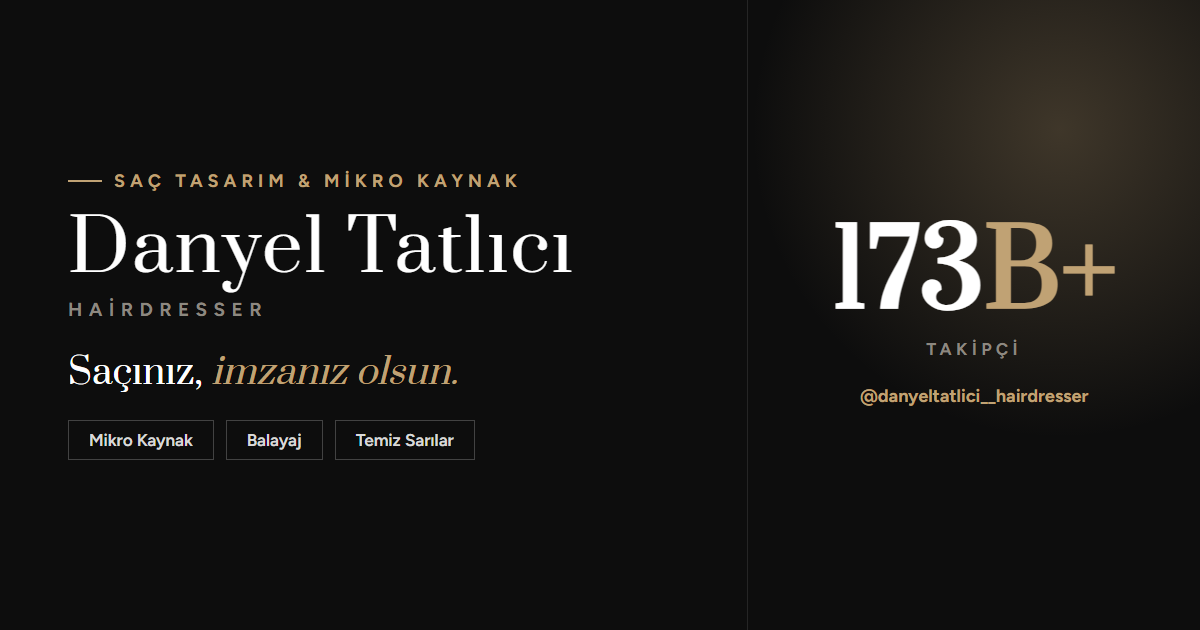
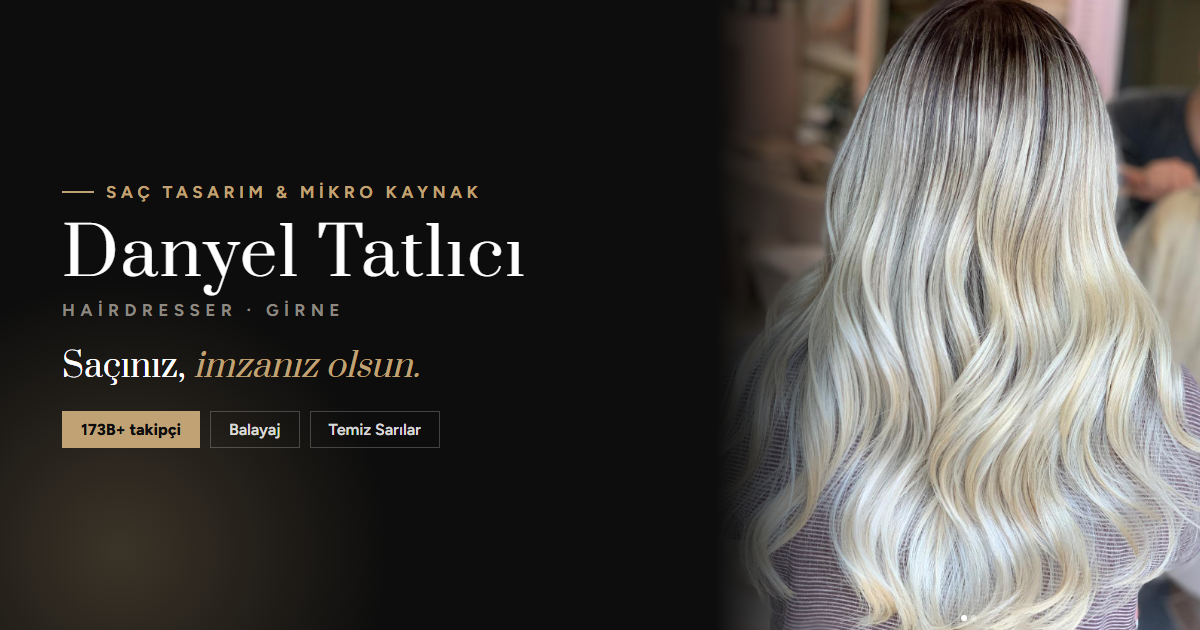
Add work gallery + photo OG card

diff --git a/index.html b/index.html
@@ -108,6 +108,18 @@
   .scard h3{font-size:1.55rem;margin:12px 0 8px}
   .scard p{color:var(--muted);font-size:.94rem}
 
+  /* gallery */
+  .gal{display:grid;grid-template-columns:repeat(6,1fr);grid-auto-rows:320px;gap:12px;margin-top:56px}
+  .gal figure{overflow:hidden;position:relative;background:var(--off)}
+  .gal figure img{width:100%;height:100%;object-fit:cover;transition:1.2s var(--ease)}
+  .gal figure:hover img{transform:scale(1.06)}
+  .gal figure figcaption{position:absolute;left:0;right:0;bottom:0;padding:26px 20px 16px;color:#fff;
+    background:linear-gradient(0deg,rgba(13,13,13,.78),transparent);opacity:0;transform:translateY(8px);transition:.5s var(--ease)}
+  .gal figure:hover figcaption{opacity:1;transform:none}
+  .gal figcaption b{font-family:'Prata',serif;font-size:1.15rem;display:block;line-height:1.2}
+  .gal figcaption span{font-size:.66rem;letter-spacing:.16em;text-transform:uppercase;color:var(--champagne-lt)}
+  .gal .s2{grid-column:span 2}.gal .s3{grid-column:span 3}
+
   /* signature */
   .sig{background:var(--ink);color:#fff;text-align:center}
   .sig .eyebrow{color:var(--champagne)}.sig .eyebrow::before,.sig .eyebrow::after{background:var(--champagne)}
@@ -167,10 +179,12 @@
     .navtoggle{display:block}
     .hero-grid,.dubai-in,.cgrid{grid-template-columns:1fr;gap:44px}
     .serv{grid-template-columns:1fr 1fr}
+    .gal{grid-template-columns:1fr 1fr;grid-auto-rows:260px}
+    .gal .s2,.gal .s3{grid-column:span 1}
     .pad{padding:70px 0}
     nav.open ul{display:flex;position:absolute;top:100%;left:0;right:0;flex-direction:column;background:rgba(255,255,255,.98);backdrop-filter:blur(12px);padding:24px;gap:18px;border-top:1px solid var(--line)}
   }
-  @media(max-width:560px){.serv{grid-template-columns:1fr}.wrap{padding:0 20px}.hero-figure .tag{left:14px}}
+  @media(max-width:560px){.serv{grid-template-columns:1fr}.gal{grid-template-columns:1fr;grid-auto-rows:340px}.wrap{padding:0 20px}.hero-figure .tag{left:14px}}
 </style>
 </head>
 <body>
@@ -182,6 +196,7 @@
     <nav id="nav"><ul>
       <li><a href="#services" data-en="Services">Hizmetler</a></li>
       <li><a href="#signature" data-en="Signature">İmza</a></li>
+      <li><a href="#gallery" data-en="Gallery">Galeri</a></li>
       <li><a href="#dubai">Dubai</a></li>
       <li><a href="#contact" data-en="Booking">Rezervasyon</a></li>
     </ul></nav>
@@ -251,6 +266,27 @@
       <span data-en="Balayage">Balayaj</span><span data-en="Ombré">Ombre</span><span data-en="Platinum">Platin</span><span data-en="Honey">Bal Sarısı</span><span data-en="Toning">Tonlama</span>
     </div>
     <div style="margin-top:34px" class="reveal d3"><a class="btn btn-champ" href="https://wa.me/905488875747" target="_blank" rel="noopener" data-en="Book a Consultation">Danışma Randevusu Al</a></div>
+  </div>
+</section>
+
+<!-- GALLERY -->
+<section class="pad" id="gallery">
+  <div class="wrap">
+    <div class="center">
+      <span class="eyebrow reveal" data-en="Our Work">Çalışmalarımız</span>
+      <h2 class="stitle reveal d1" data-en="The <em>proof</em> is in the hair">Sonuç <em>saçta</em> görünür</h2>
+      <p class="lede reveal d2" data-en="A small selection from thousands of transformations. Every shade, tone and technique applied with care for hair health.">Binlerce dönüşümden küçük bir seçki. Her ton, her teknik — saç sağlığı gözetilerek.</p>
+    </div>
+    <div class="gal reveal d1">
+      <figure class="s2"><img src="img/platin.jpg" alt="Platin balayaj" onerror="this.remove()"><figcaption><span data-en="Balayage">Balayaj</span><b data-en="Platinum Blonde">Platin Sarı</b></figcaption></figure>
+      <figure class="s2"><img src="img/gri-ombre.jpg" alt="Gri ombre" onerror="this.remove()"><figcaption><span data-en="Ombré">Ombre</span><b data-en="Icy Silver">Buzlu Gri</b></figcaption></figure>
+      <figure class="s2"><img src="img/rose-ombre.jpg" alt="Rose ombre" onerror="this.remove()"><figcaption><span data-en="Colour">Renklendirme</span><b data-en="Rose Mocha">Rose Mocha</b></figcaption></figure>
+      <figure class="s3"><img src="img/sari-uzun.jpg" alt="Sarı uzun saç" onerror="this.remove()"><figcaption><span data-en="Clean Blonde">Temiz Sarı</span><b data-en="Long &amp; Luminous">Uzun &amp; Işıltılı</b></figcaption></figure>
+      <figure class="s3"><img src="img/sari-bob.jpg" alt="Sarı bob" onerror="this.remove()"><figcaption><span data-en="Cut &amp; Colour">Kesim &amp; Renk</span><b data-en="Blonde Lob">Sarı Bob</b></figcaption></figure>
+    </div>
+    <div class="center" style="margin-top:34px">
+      <a class="btn btn-line reveal d2" href="https://instagram.com/danyeltatlici__hairdresser" target="_blank" rel="noopener" data-en="See more on Instagram">Instagram'da Daha Fazlası</a>
+    </div>
   </div>
 </section>
 
@@ -334,7 +370,7 @@
   <div class="wrap">
     <a class="brand" href="#top"><b>DANYEL TATLICI</b><i>Hairdresser</i></a>
     <div class="fnav">
-      <a href="#services" data-en="Services">Hizmetler</a><a href="#signature" data-en="Signature">İmza</a><a href="#dubai">Dubai</a><a href="#contact" data-en="Booking">Rezervasyon</a>
+      <a href="#services" data-en="Services">Hizmetler</a><a href="#gallery" data-en="Gallery">Galeri</a><a href="#dubai">Dubai</a><a href="#contact" data-en="Booking">Rezervasyon</a>
     </div>
     <small data-en="© 2026 Danyel Tatlıcı Hairdresser · Hair Design &amp; Micro Link Specialist">© 2026 Danyel Tatlıcı Hairdresser · Saç Tasarım &amp; Mikro Kaynak Uzmanı</small>
   </div>
